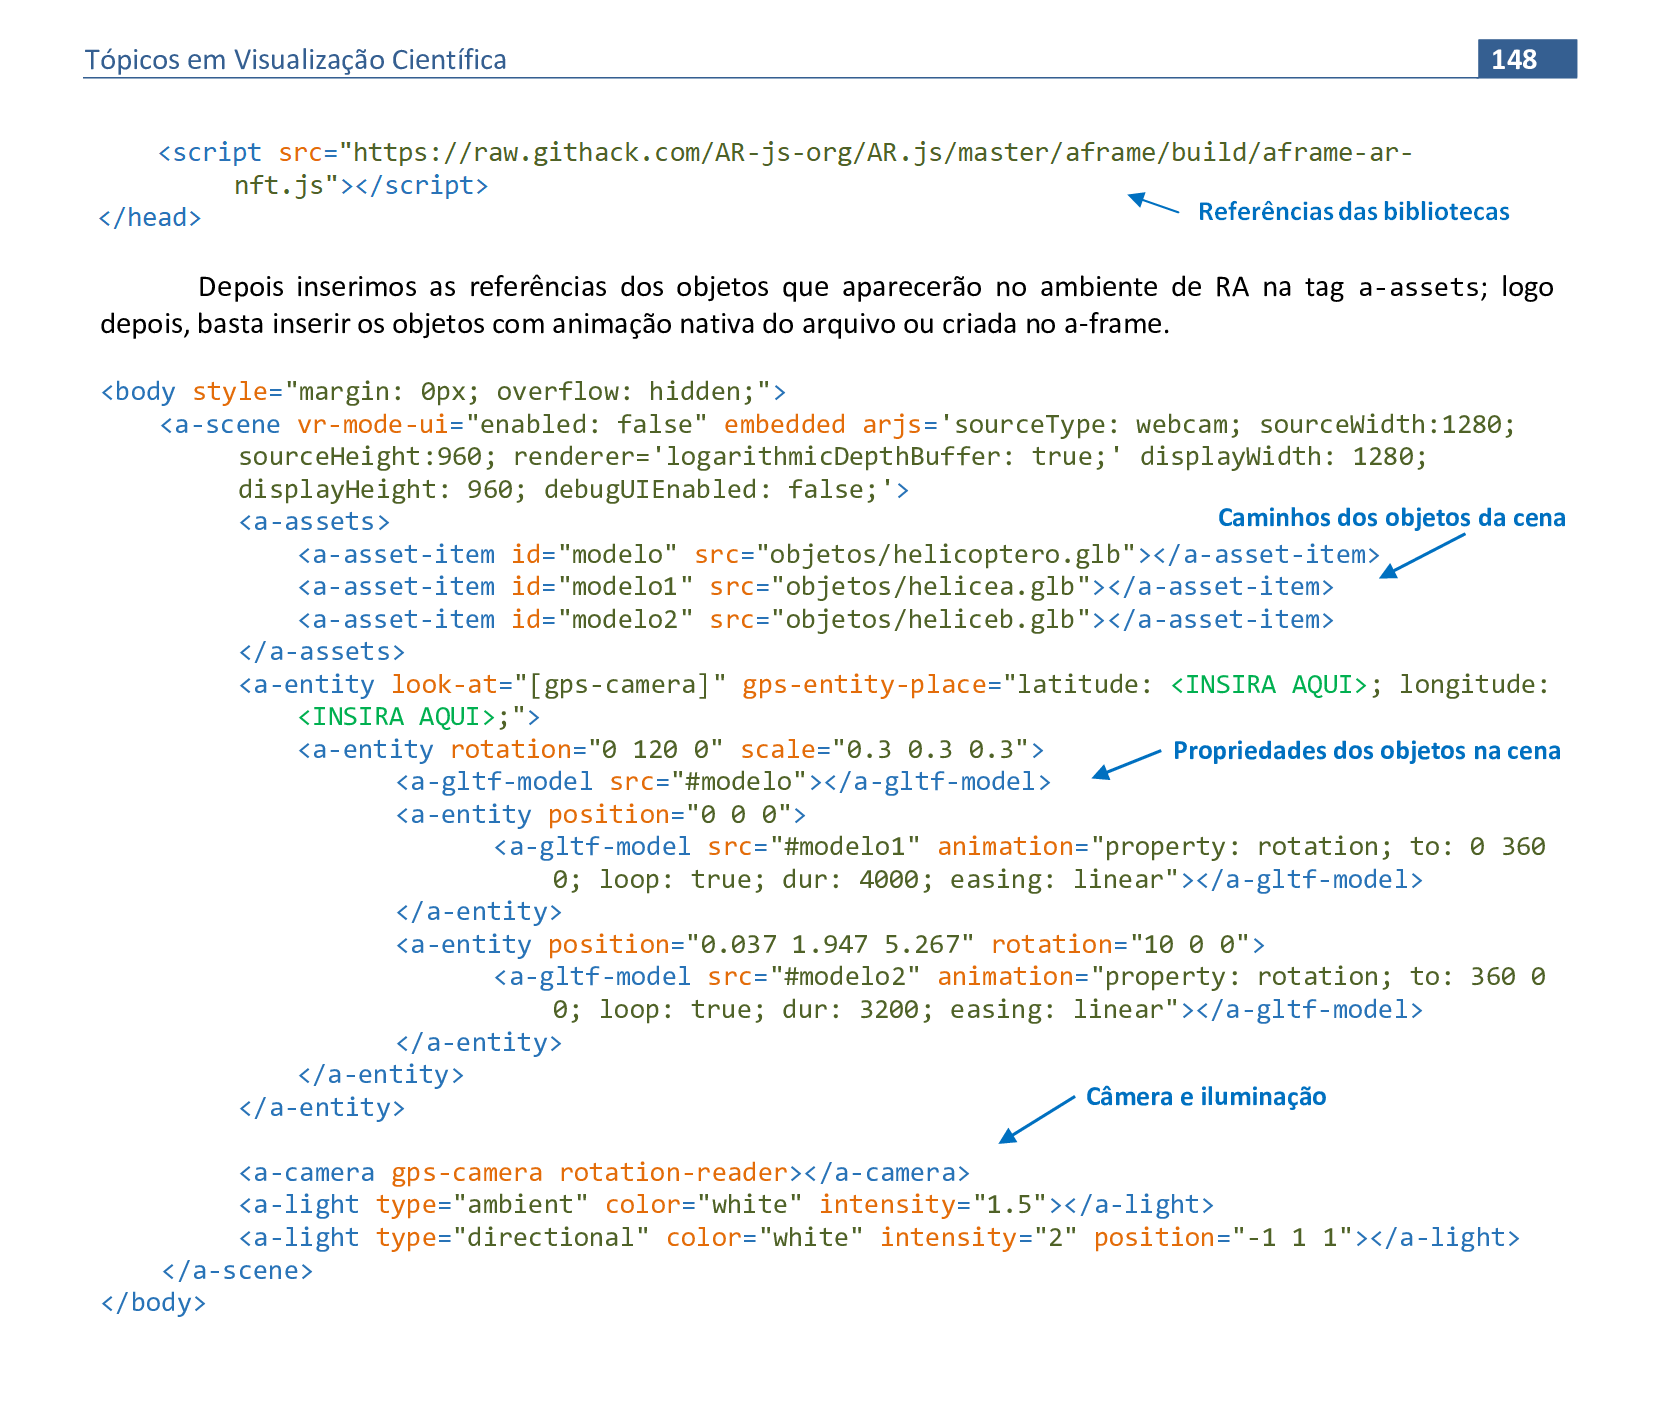
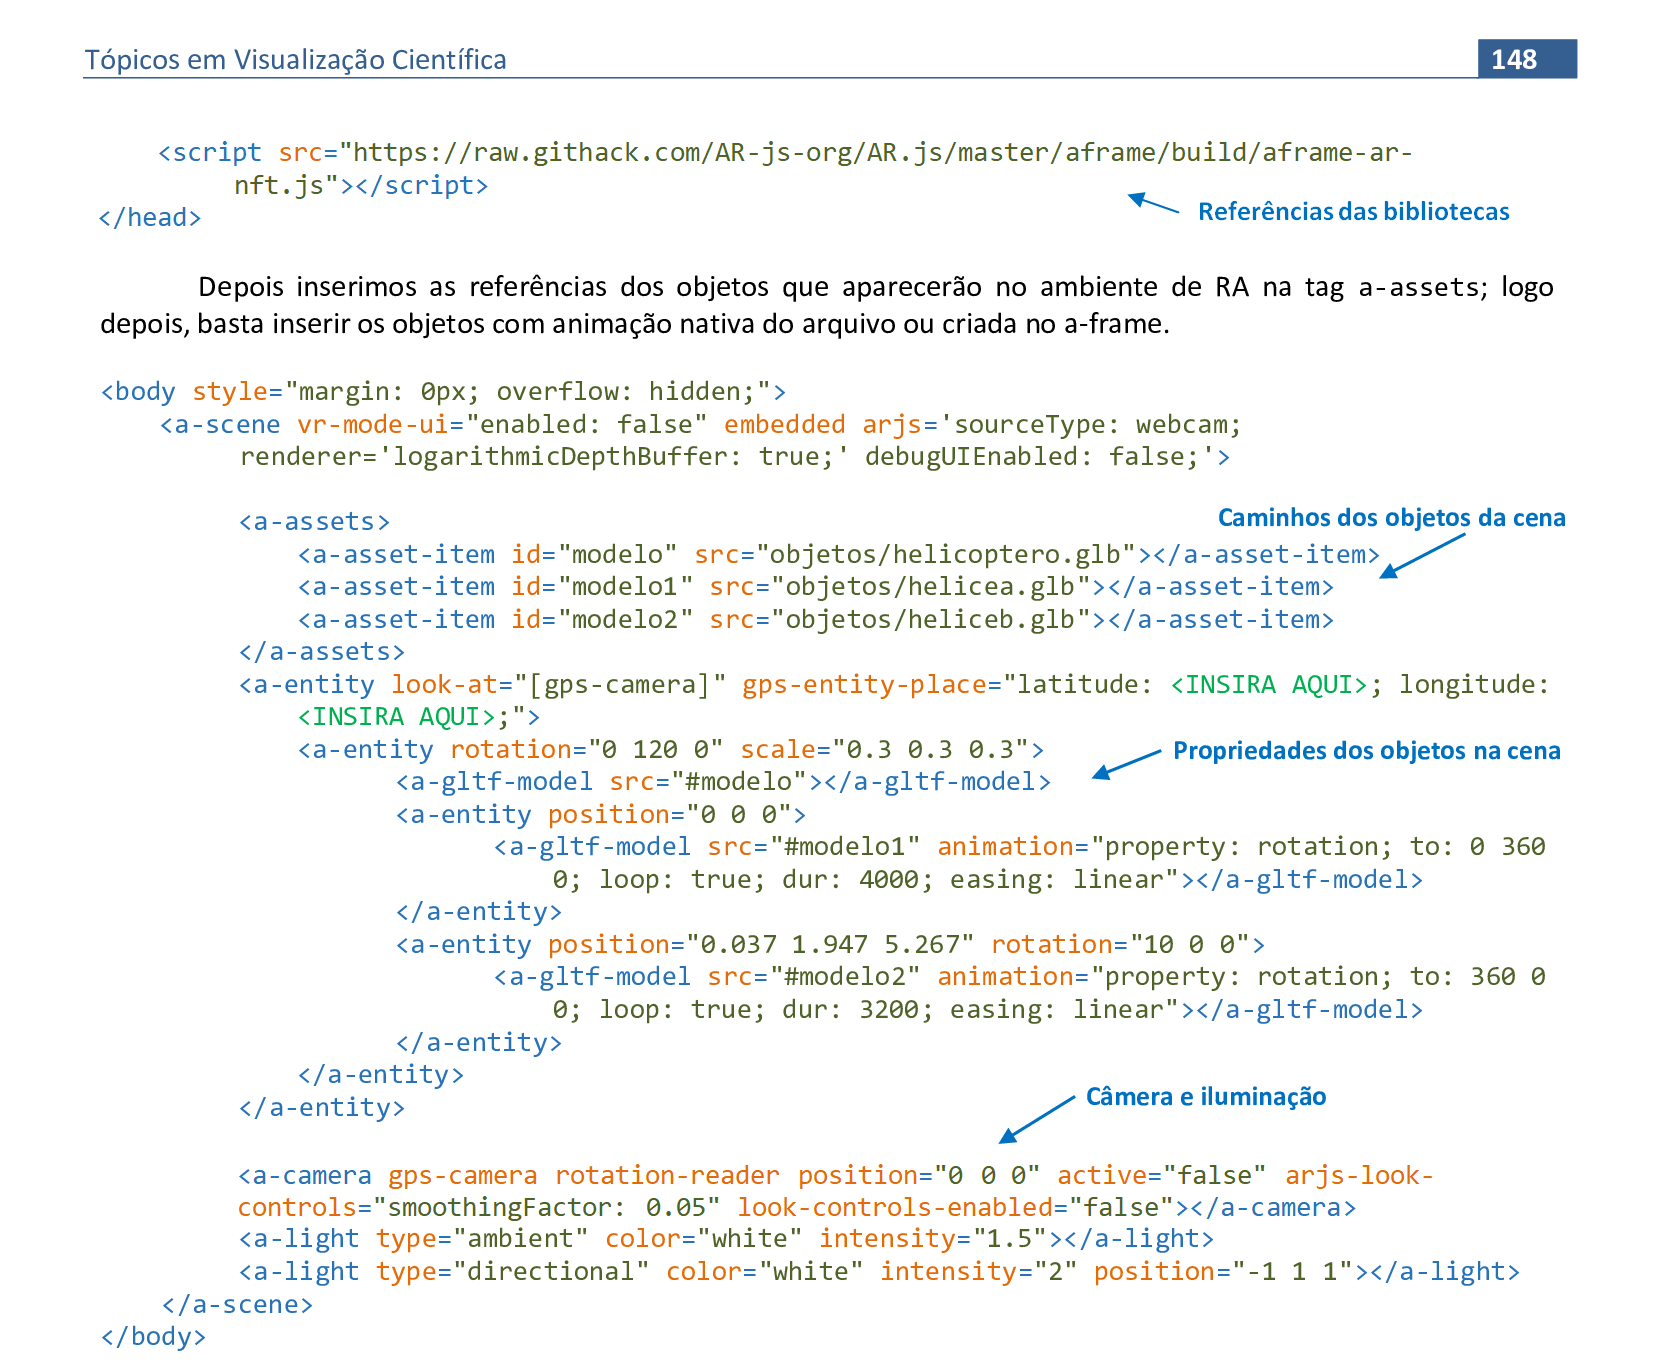
updt

diff --git a/modulo9/exemplo2.html b/modulo9/exemplo2.html
@@ -35,7 +35,7 @@
             </a-entity>
         </a-entity>
 		
-        <a-camera gps-camera rotation-reader active="false" look-controls-enabled="false" position="0 0 0" arjs-look-controls="smoothingFactor: 0.05"></a-camera>
+        <a-camera gps-camera rotation-reader active="false" position="0 0 0" arjs-look-controls="smoothingFactor: 0.05"></a-camera>
         <a-light type="ambient" color="white" intensity="2"></a-light>
         <a-light type="directional" color="white" intensity="1.5" position="-1 1 1"></a-light>
         <a-light type="directional" color="white" intensity="1.5" position="1 1 1"></a-light>

diff --git a/README.md b/README.md
@@ -4315,7 +4315,7 @@ p.show()
             &lt;/a-entity&gt;
         &lt;/a-entity&gt;
 		
-        <a alt="propriedades da câmera">&lt;a-camera gps-camera rotation-reader position="0 0 0" 
+        <a alt="propriedades da câmera">&lt;a-camera gps-camera rotation-reader position="0 0 0" active="false"  
           arjs-look-controls="smoothingFactor: 0.05"&gt;&lt;/a-camera&gt;</a>
         <a alt="iluminação da cena">&lt;a-light type=</a>"ambient" color="white" intensity="2"&gt;&lt;/a-light&gt;
         &lt;a-light type="directional" color="white" intensity="1.5" position="-1 1 1"&gt;&lt;/a-light&gt;
